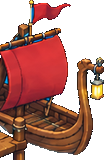
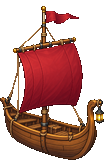
feat(godot): icones flottantes sur les ilots, planches recalees sur leurs batiments
- DIG, DEFEND et RAID : icones du kit (pioche, bouclier, epees) qui flottent
  au-dessus d'une ombre ovale (IconShadow) ; sprites des batiments retravailles
  (art-source/landmarks).
- Planches dans l'interface. UPGRADE et SHOP au-dessus de leur batiment,
  calees sur le haut PEINT (l'alpha, pas le cadre : le toit de la maison est
  a 25..48 px du pied selon le niveau, pas 85). HARVEST au milieu du potager,
  les autres dessous. Quand deux planches se touchent, UPGRADE reste sur son
  toit et l'autre s'ecarte.
- DIG : « la traversee coute 5 » + l'eclair, et plus de « ! » de quete.

diff --git a/art-source/landmarks/README.md b/art-source/landmarks/README.md
@@ -1,0 +1,24 @@
+# Landmark sprites
+
+Generated with the built-in imagegen tool. Original game sprites are preserved in `originals/`; selected generated masters are `*-source.png`. `preview.png` shows the four final assets at 2× nearest-neighbour scale.
+
+Final assets: `godot/assets/buildings/landmarks/{dig,defend,raid,shop}.png`.
+
+The selected DIG is the open shaft with ladder, as requested. The later trampoline variant was discarded. The sprites were reduced to small logical resolutions (DIG 64×42, DEFEND 108×45, RAID 52×80, SHOP 67×53), fitted preserving aspect ratio, quantized to 32 colors, and enlarged without smoothing into the existing canvas dimensions. Alpha is binary to remove translucent fringe. Existing game footprint and references are retained. PNG dimensions and alpha were checked; in-game appearance has not been verified.
+
+## Current higher-detail version
+
+The game assets now use the full original canvas resolution, resized directly from the generated masters without the 32-color reduction. Their dimensions and Godot scale remain unchanged. The previous coarse versions are preserved in `low-resolution/`. See `preview-higher-resolution.png` for the current sprites at 2×.
+
+## Generation prompts
+
+Shared prompt:
+
+Create one production game sprite for Rabbit Royale. Use case: stylized-concept. Crisp hand-pixeled 2D pixel art, consistent chunky pixel clusters, dark brown outlines, restrained warm wood ochre and green palette, sunlight upper left, orthographic 2:1 isometric view seen from above matching a cozy rabbit island game. Readable small silhouette, simplified intentional details, no painterly rendering, no blur, no text, no UI, no signboard, no surrounding island, no grass tile, no bridge, no water backdrop. Genuine transparent alpha background. Entire isolated object within frame with minimal transparent margin.
+
+Each prompt used the corresponding original sprite as its edit reference, followed by:
+
+- DIG: Asset DIG: redesign the reference excavation entrance as a charming round timber-lined mine shaft with a visibly deep dark opening, thick wooden rim, short ladder descending inside, small shovel leaning at right, a little earth around the foot only. Low wide silhouette. Preserve its visual role but remove pale trampoline-like surface and all cutout debris. This is a standalone individual sprite.
+- DEFEND: Asset DEFEND: redesign reference as a compact coherent wooden rabbit fort gateway, a stout central gatehouse with blue hanging shield banner, short pointed-log palisade wings either side, brass fittings. Broad low silhouette, approximately twice as wide as tall. No detached logs, no bridge behind it, no grass baked in. Standalone individual sprite.
+- RAID: Asset RAID: redesign reference as a small sturdy wooden expedition sailboat, single rich burgundy square sail and small pennant, readable curved hull, rope and warm hanging lantern at stern. Full boat visible, no cropped hull, no dock or attached bridge, no waves. Tall silhouette roughly 2:3 width to height. Standalone individual sprite.
+- SHOP: Asset SHOP: redesign reference as a compact charming wooden merchant stall with orange and cream striped canvas canopy, a few readable carrots and jars on counter, one barrel at side, small hanging gold coin emblem without letters. Coherent sturdy construction, clean outline, no scattered clutter outside stall. Roughly square silhouette slightly wider than tall. Standalone individual sprite.

diff --git a/art-source/landmarks/floating-icons.md b/art-source/landmarks/floating-icons.md
@@ -1,0 +1,7 @@
+# Floating landmark icons
+
+- DIG: `godot/assets/ui/icons/pickaxe.png`, copied unchanged from `art-source/tiny-swords-png/Terrain/Resources/Tools/Tool_04.png`.
+- DEFEND: existing `godot/assets/ui/icons/shield.webp`.
+- RAID: existing `godot/assets/ui/icons/swords.webp`.
+
+All three use a 32-pixel maximum dimension in world space, a subtle vertical bob and a small ground shadow. Wooden labels and their status lines are restored. The generated pickaxe experiment is not used.
